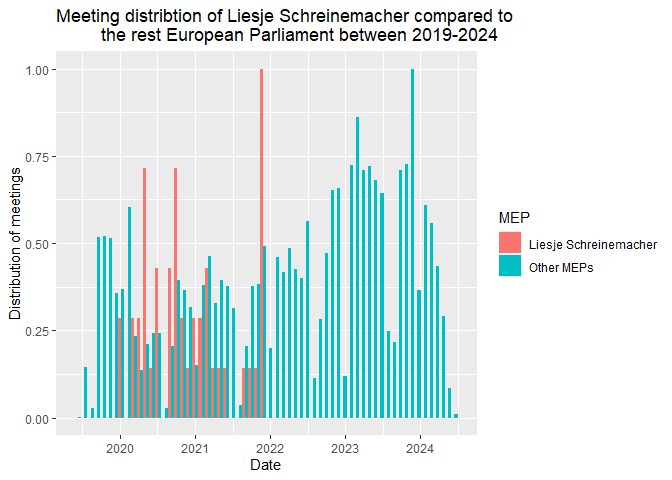
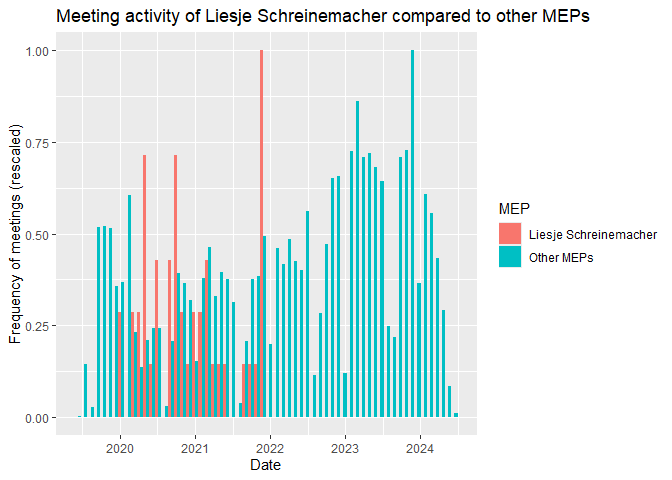
update POLI

diff --git a/courses/SSCPOLI302/workshop1.md b/courses/SSCPOLI302/workshop1.md
@@ -2,7 +2,7 @@
 layout: page
 title: "SSCPOLI302:<br> Analysis of MEPs (draft)"
 subtitle: "Fall 2024"
-date: "Last updated: 2024-09-09"
+date: "Last updated: 2024-09-10"
 output:
   md_document:
     variant: gfm
@@ -18,6 +18,8 @@ output:
 - [Differences between political
   groups](#differences-between-political-groups)
 - [Role distributions](#role-distributions)
+- [References to legislative
+  dossiers](#references-to-legislative-dossiers)
 
 # Loading libraries and data
 
@@ -191,7 +193,7 @@ meetings |>
   labs(title = "Meeting activity of Liesje Schreinemacher during her
          MEP career", 
        x = "Date", 
-       y = "Density")
+       y = "Frequency of meetings")
 ```
 
 ![](workshop1_files/figure-gfm/unnamed-chunk-9-1.png)<!-- -->
@@ -213,7 +215,10 @@ meetings |>
                       "Liesje Schreinemacher",
                       "Other MEPs")) |>
   ggplot() +
-  geom_histogram(aes(x = meeting_date, fill = MEP), binwidth = 30)
+  geom_histogram(aes(x = meeting_date, fill = MEP), binwidth = 30) +
+  labs(title = "Meeting activity of Liesje Schreinemacher compared to other MEPs", 
+       x = "Date", 
+       y = "Frequency of meetings")
 ```
 
 ![](workshop1_files/figure-gfm/unnamed-chunk-10-1.png)<!-- -->
@@ -236,10 +241,9 @@ meetings |>
   ggplot() +
   geom_histogram(aes(x = meeting_date, y = after_stat(ncount), fill = MEP),
                  binwidth = 30, position = "dodge") +
-  labs(title = "Meeting distribtion of Liesje Schreinemacher compared to
-         the rest European Parliament between 2019-2024",
+    labs(title = "Meeting activity of Liesje Schreinemacher compared to other MEPs", 
        x = "Date", 
-       y = "Distribution of meetings")
+       y = "Frequency of meetings (rescaled)")
 ```
 
 ![](workshop1_files/figure-gfm/unnamed-chunk-11-1.png)<!-- -->
@@ -259,17 +263,17 @@ groups that saw many MEP replacements and thus have more MEPs than seats
 in their data.
 
 ``` r
-# define the number of seats per group (as of May 2024)
+# define the number of seats per group (as of May 2024) and the position of each group on the left-right spectrum
 seats <- tribble(
-  ~political_group, ~seats,
-  "EPP", 176,
-  "S&D", 139,
-  "Renew", 102,
-  "Greens", 72,
-  "ECR", 69,
-  "Non-attached", 61,
-  "ID", 49,
-  "the Left", 37)
+  ~political_group, ~seats, ~leftright,
+  "EPP", 176, 5,
+  "S&D", 139, 3,
+  "Renew", 102, 4,
+  "Greens", 72, 2,
+  "ECR", 69, 6,
+  "Non-attached", 61, 8,
+  "ID", 49, 7,
+  "the Left", 37, 1)
 
 # count the number of meetings per political group in the meeting data
 meetings_per_seat <- meetings |> 
@@ -296,11 +300,11 @@ meetings_per_seat |>
 
 ![](workshop1_files/figure-gfm/unnamed-chunk-13-1.png)<!-- -->
 
-To improve the quality of the graph, we can again organize the bars in
-ascending order of the number of MEPs. In addition, we can specify the
-colors of the bars to match those of their political groups. We define
-these colors in a separate vector and use the `scale_fill_manual()`
-function to apply them to the plot.
+To improve the quality of the graph, we can organize the bars based on
+the political orientation of the political group. In addition, we can
+specify the colors of the bars to match those of their political groups.
+We define these colors in a separate vector and use the
+`scale_fill_manual()` function to apply them to the plot.
 
 ``` r
 # define political group colors
@@ -316,7 +320,7 @@ colors <- c("EPP" = "deepskyblue",
 # number of MEP seats per political group
 meetings_per_seat |> 
   ggplot() +
-  geom_col(aes(x = reorder(political_group, seats), y = seats, 
+  geom_col(aes(x = reorder(political_group, leftright), y = seats, 
                fill = political_group),
            # color the borders of the bars black and hide the legend
            color = "black", show.legend = FALSE) +
@@ -335,7 +339,7 @@ in each political group.
 # average number of meetings per seat per political group
 meetings_per_seat |> 
   ggplot() +
-  geom_col(aes(x = reorder(political_group, meetings_per_seat), 
+  geom_col(aes(x = reorder(political_group, leftright), 
                y = meetings_per_seat, fill = political_group),
            color = "black", show.legend = FALSE) +
   labs(title = "Average number of reported meetings per seat", 
@@ -407,26 +411,33 @@ meetings |>
 
 ![](workshop1_files/figure-gfm/unnamed-chunk-18-1.png)<!-- -->
 
-*Unclear what’s happening here, to be discussed*
+# References to legislative dossiers
+
+*Unclear what the purpose is, to be discussed*
+
+Optional extra; try to figure out which roles have linked a procedure
+reference. This is important for full transparency about the legislative
+dossier their meeting relates to.
+
+Computing which roles have added a reference with a case_when function.
+Afterwards computing what percentage of each role then referenced a
+file. Finally ranking the results by % within “yes” or “no”
+reference-groups.
 
 ``` r
-#Optional extra; try to figure out which roles have linked a procedure reference.
-#This is imporant for full transparency about the legislative dossier their
-#meeting relates to.
-
-
-#Computing which roles have added a reference with a case_when function.
-#Afterwards computing what percentage of each role then referenced a file.
-#Finally ranking the results by % within "yes" or "no" reference-groups.
-
-Role_reference <-
-    meetings |>
-    group_by(member_capacity) |>
-    mutate(reference = if_else(is.na(procedure_reference), "no", "yes")) |>
-    group_by(member_capacity, reference) |>
-    summarize(nr = n()) |>
-    mutate(role_total = sum(nr),
-           reference_percentage = ((nr/role_total)*100)) |>
-    group_by(reference) |>
-    arrange(desc(reference_percentage), .by_group = TRUE)
+meetings |> 
+  mutate(reference = !is.na(procedure_reference)) |>
+  count(member_capacity, reference) |> 
+  group_by(member_capacity) |>
+  mutate(reference_share = n / sum(n)) |> 
+  ggplot() +
+  geom_col(aes(x = reference_share, 
+               y = member_capacity, 
+               fill = reference)) +
+  labs(title = "Share of meetings with a reference to a legislative dossier", 
+       x = "Share of meetings",
+       y = "Role",
+       fill = "Linked reference")
 ```
+
+![](workshop1_files/figure-gfm/unnamed-chunk-19-1.png)<!-- -->
